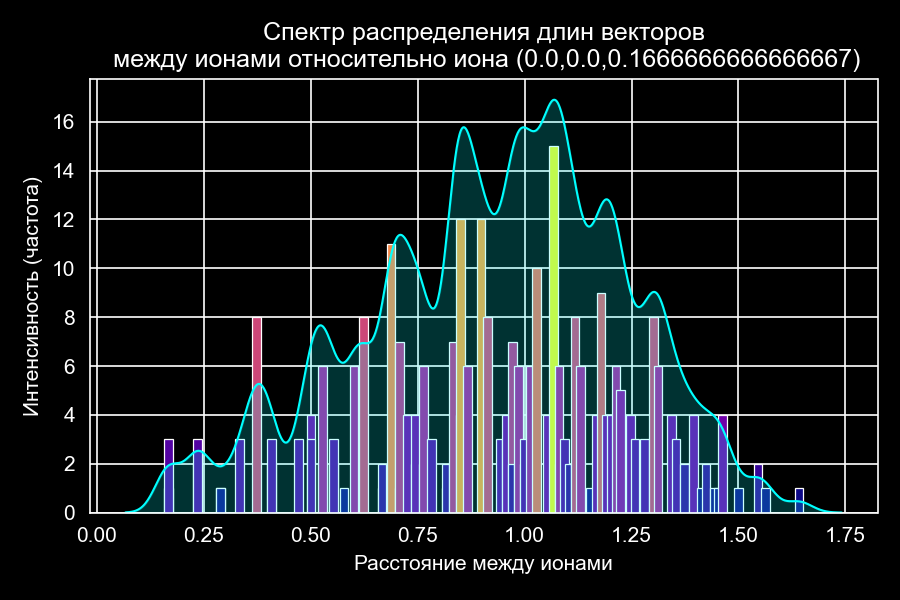
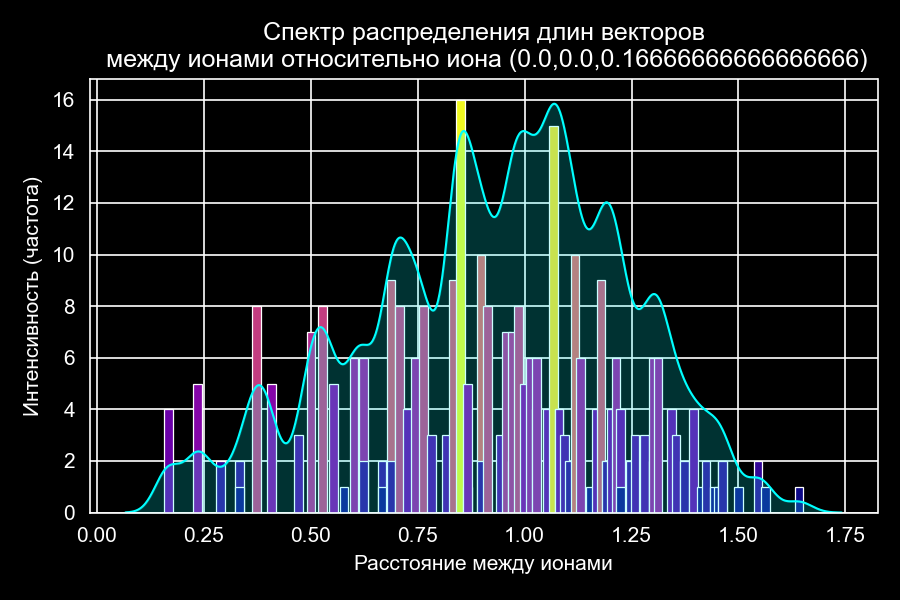
Небольшие улучшения, выводы по работе

diff --git a/scripts/operations/testing.py b/scripts/operations/testing.py
@@ -16,23 +16,23 @@ from scripts.operations.spectrum_operations import create_all_spectrum_plots, pl
 # res = get_lattice_vectors2(normalized_data)
 
 # Нормализовать
-a = parse_xyz(Path("../../data/NaCl/NaCl_7x7x7.xyz"))
-data_dict = {}
-for i in range(len(a)):
-    data_dict[i + 1] = a[i]
-shifted_data = shift_coordinates(data_dict.values())
-normalized_data = normalize_coordinates(shifted_data)
-print(normalized_data)
-res = get_lattice_vectors2(normalized_data)
+# a = parse_xyz(Path("../../data/NaCl/NaCl_7x7x7.xyz"))
+# data_dict = {}
+# for i in range(len(a)):
+#     data_dict[i + 1] = a[i]
+# shifted_data = shift_coordinates(data_dict.values())
+# normalized_data = normalize_coordinates(shifted_data)
+# print(normalized_data)
+# res = get_lattice_vectors2(normalized_data)
 
 # Создание графиков по набору векторов
 # # 3x3x3
 # #a = [['Cl', 0.0, 0.0, 0.0], ['Na', 0.0, 0.0, 0.5], ['Cl', 0.0, 0.0, 1.0], ['Na', 0.0, 0.5, 0.0], ['Cl', 0.0, 0.5, 0.5], ['Na', 0.0, 0.5, 1.0], ['Cl', 0.0, 1.0, 0.0], ['Na', 0.0, 1.0, 0.5], ['Cl', 0.0, 1.0, 1.0], ['Na', 0.5, 0.0, 0.0], ['Cl', 0.5, 0.0, 0.5], ['Na', 0.5, 0.0, 1.0], ['Cl', 0.5, 0.5, 0.0], ['Na', 0.5, 0.5, 0.5], ['Cl', 0.5, 0.5, 1.0], ['Na', 0.5, 1.0, 0.0], ['Cl', 0.5, 1.0, 0.5], ['Na', 0.5, 1.0, 1.0], ['Cl', 1.0, 0.0, 0.0], ['Na', 1.0, 0.0, 0.5], ['Cl', 1.0, 0.0, 1.0], ['Na', 1.0, 0.5, 0.0], ['Cl', 1.0, 0.5, 0.5], ['Na', 1.0, 0.5, 1.0], ['Cl', 1.0, 1.0, 0.0], ['Na', 1.0, 1.0, 0.5], ['Cl', 1.0, 1.0, 1.0]]
 # #substance_id = 333
 # # 7x7x7
-# #a = [['Cl', 0.0, 0.0, 0.0], ['Na', 0.0, 0.0, 0.16666666666666666], ['Cl', 0.0, 0.0, 0.3333333333333333], ['Na', 0.0, 0.0, 0.5], ['Cl', 0.0, 0.0, 0.6666666666666666], ['Na', 0.0, 0.0, 0.8333333333333334], ['Cl', 0.0, 0.0, 1.0], ['Na', 0.0, 0.16666666666666666, 0.0], ['Cl', 0.0, 0.16666666666666666, 0.16666666666666666], ['Na', 0.0, 0.16666666666666666, 0.3333333333333333], ['Cl', 0.0, 0.16666666666666666, 0.5], ['Na', 0.0, 0.16666666666666666, 0.6666666666666666], ['Cl', 0.0, 0.16666666666666666, 0.8333333333333334], ['Na', 0.0, 0.16666666666666666, 1.0], ['Cl', 0.0, 0.3333333333333333, 0.0], ['Na', 0.0, 0.3333333333333333, 0.16666666666666666], ['Cl', 0.0, 0.3333333333333333, 0.3333333333333333], ['Na', 0.0, 0.3333333333333333, 0.5], ['Cl', 0.0, 0.3333333333333333, 0.6666666666666666], ['Na', 0.0, 0.3333333333333333, 0.8333333333333334], ['Cl', 0.0, 0.3333333333333333, 1.0], ['Na', 0.0, 0.5, 0.0], ['Cl', 0.0, 0.5, 0.16666666666666666], ['Na', 0.0, 0.5, 0.3333333333333333], ['Cl', 0.0, 0.5, 0.5], ['Na', 0.0, 0.5, 0.6666666666666666], ['Cl', 0.0, 0.5, 0.8333333333333334], ['Na', 0.0, 0.5, 1.0], ['Cl', 0.0, 0.6666666666666666, 0.0], ['Na', 0.0, 0.6666666666666666, 0.16666666666666666], ['Cl', 0.0, 0.6666666666666666, 0.3333333333333333], ['Na', 0.0, 0.6666666666666666, 0.5], ['Cl', 0.0, 0.6666666666666666, 0.6666666666666666], ['Na', 0.0, 0.6666666666666666, 0.8333333333333334], ['Cl', 0.0, 0.6666666666666666, 1.0], ['Na', 0.0, 0.8333333333333334, 0.0], ['Cl', 0.0, 0.8333333333333334, 0.16666666666666666], ['Na', 0.0, 0.8333333333333334, 0.3333333333333333], ['Cl', 0.0, 0.8333333333333334, 0.5], ['Na', 0.0, 0.8333333333333334, 0.6666666666666666], ['Cl', 0.0, 0.8333333333333334, 0.8333333333333334], ['Na', 0.0, 0.8333333333333334, 1.0], ['Cl', 0.0, 1.0, 0.0], ['Na', 0.0, 1.0, 0.16666666666666666], ['Cl', 0.0, 1.0, 0.3333333333333333], ['Na', 0.0, 1.0, 0.5], ['Cl', 0.0, 1.0, 0.6666666666666666], ['Na', 0.0, 1.0, 0.8333333333333334], ['Cl', 0.0, 1.0, 1.0], ['Na', 0.16666666666666666, 0.0, 0.0], ['Cl', 0.16666666666666666, 0.0, 0.16666666666666666], ['Na', 0.16666666666666666, 0.0, 0.3333333333333333], ['Cl', 0.16666666666666666, 0.0, 0.5], ['Na', 0.16666666666666666, 0.0, 0.6666666666666666], ['Cl', 0.16666666666666666, 0.0, 0.8333333333333334], ['Na', 0.16666666666666666, 0.0, 1.0], ['Cl', 0.16666666666666666, 0.16666666666666666, 0.0], ['Na', 0.16666666666666666, 0.16666666666666666, 0.16666666666666666], ['Cl', 0.16666666666666666, 0.16666666666666666, 0.3333333333333333], ['Na', 0.16666666666666666, 0.16666666666666666, 0.5], ['Cl', 0.16666666666666666, 0.16666666666666666, 0.6666666666666666], ['Na', 0.16666666666666666, 0.16666666666666666, 0.8333333333333334], ['Cl', 0.16666666666666666, 0.16666666666666666, 1.0], ['Na', 0.16666666666666666, 0.3333333333333333, 0.0], ['Cl', 0.16666666666666666, 0.3333333333333333, 0.16666666666666666], ['Na', 0.16666666666666666, 0.3333333333333333, 0.3333333333333333], ['Cl', 0.16666666666666666, 0.3333333333333333, 0.5], ['Na', 0.16666666666666666, 0.3333333333333333, 0.6666666666666666], ['Cl', 0.16666666666666666, 0.3333333333333333, 0.8333333333333334], ['Na', 0.16666666666666666, 0.3333333333333333, 1.0], ['Cl', 0.16666666666666666, 0.5, 0.0], ['Na', 0.16666666666666666, 0.5, 0.16666666666666666], ['Cl', 0.16666666666666666, 0.5, 0.3333333333333333], ['Na', 0.16666666666666666, 0.5, 0.5], ['Cl', 0.16666666666666666, 0.5, 0.6666666666666666], ['Na', 0.16666666666666666, 0.5, 0.8333333333333334], ['Cl', 0.16666666666666666, 0.5, 1.0], ['Na', 0.16666666666666666, 0.6666666666666666, 0.0], ['Cl', 0.16666666666666666, 0.6666666666666666, 0.16666666666666666], ['Na', 0.16666666666666666, 0.6666666666666666, 0.3333333333333333], ['Cl', 0.16666666666666666, 0.6666666666666666, 0.5], ['Na', 0.16666666666666666, 0.6666666666666666, 0.6666666666666666], ['Cl', 0.16666666666666666, 0.6666666666666666, 0.8333333333333334], ['Na', 0.16666666666666666, 0.6666666666666666, 1.0], ['Cl', 0.16666666666666666, 0.8333333333333334, 0.0], ['Na', 0.16666666666666666, 0.8333333333333334, 0.16666666666666666], ['Cl', 0.16666666666666666, 0.8333333333333334, 0.3333333333333333], ['Na', 0.16666666666666666, 0.8333333333333334, 0.5], ['Cl', 0.16666666666666666, 0.8333333333333334, 0.6666666666666666], ['Na', 0.16666666666666666, 0.8333333333333334, 0.8333333333333334], ['Cl', 0.16666666666666666, 0.8333333333333334, 1.0], ['Na', 0.16666666666666666, 1.0, 0.0], ['Cl', 0.16666666666666666, 1.0, 0.16666666666666666], ['Na', 0.16666666666666666, 1.0, 0.3333333333333333], ['Cl', 0.16666666666666666, 1.0, 0.5], ['Na', 0.16666666666666666, 1.0, 0.6666666666666666], ['Cl', 0.16666666666666666, 1.0, 0.8333333333333334], ['Na', 0.16666666666666666, 1.0, 1.0], ['Cl', 0.3333333333333333, 0.0, 0.0], ['Na', 0.3333333333333333, 0.0, 0.16666666666666666], ['Cl', 0.3333333333333333, 0.0, 0.3333333333333333], ['Na', 0.3333333333333333, 0.0, 0.5], ['Cl', 0.3333333333333333, 0.0, 0.6666666666666666], ['Na', 0.3333333333333333, 0.0, 0.8333333333333334], ['Cl', 0.3333333333333333, 0.0, 1.0], ['Na', 0.3333333333333333, 0.16666666666666666, 0.0], ['Cl', 0.3333333333333333, 0.16666666666666666, 0.16666666666666666], ['Na', 0.3333333333333333, 0.16666666666666666, 0.3333333333333333], ['Cl', 0.3333333333333333, 0.16666666666666666, 0.5], ['Na', 0.3333333333333333, 0.16666666666666666, 0.6666666666666666], ['Cl', 0.3333333333333333, 0.16666666666666666, 0.8333333333333334], ['Na', 0.3333333333333333, 0.16666666666666666, 1.0], ['Cl', 0.3333333333333333, 0.3333333333333333, 0.0], ['Na', 0.3333333333333333, 0.3333333333333333, 0.16666666666666666], ['Cl', 0.3333333333333333, 0.3333333333333333, 0.3333333333333333], ['Na', 0.3333333333333333, 0.3333333333333333, 0.5], ['Cl', 0.3333333333333333, 0.3333333333333333, 0.6666666666666666], ['Na', 0.3333333333333333, 0.3333333333333333, 0.8333333333333334], ['Cl', 0.3333333333333333, 0.3333333333333333, 1.0], ['Na', 0.3333333333333333, 0.5, 0.0], ['Cl', 0.3333333333333333, 0.5, 0.16666666666666666], ['Na', 0.3333333333333333, 0.5, 0.3333333333333333], ['Cl', 0.3333333333333333, 0.5, 0.5], ['Na', 0.3333333333333333, 0.5, 0.6666666666666666], ['Cl', 0.3333333333333333, 0.5, 0.8333333333333334], ['Na', 0.3333333333333333, 0.5, 1.0], ['Cl', 0.3333333333333333, 0.6666666666666666, 0.0], ['Na', 0.3333333333333333, 0.6666666666666666, 0.16666666666666666], ['Cl', 0.3333333333333333, 0.6666666666666666, 0.3333333333333333], ['Na', 0.3333333333333333, 0.6666666666666666, 0.5], ['Cl', 0.3333333333333333, 0.6666666666666666, 0.6666666666666666], ['Na', 0.3333333333333333, 0.6666666666666666, 0.8333333333333334], ['Cl', 0.3333333333333333, 0.6666666666666666, 1.0], ['Na', 0.3333333333333333, 0.8333333333333334, 0.0], ['Cl', 0.3333333333333333, 0.8333333333333334, 0.16666666666666666], ['Na', 0.3333333333333333, 0.8333333333333334, 0.3333333333333333], ['Cl', 0.3333333333333333, 0.8333333333333334, 0.5], ['Na', 0.3333333333333333, 0.8333333333333334, 0.6666666666666666], ['Cl', 0.3333333333333333, 0.8333333333333334, 0.8333333333333334], ['Na', 0.3333333333333333, 0.8333333333333334, 1.0], ['Cl', 0.3333333333333333, 1.0, 0.0], ['Na', 0.3333333333333333, 1.0, 0.16666666666666666], ['Cl', 0.3333333333333333, 1.0, 0.3333333333333333], ['Na', 0.3333333333333333, 1.0, 0.5], ['Cl', 0.3333333333333333, 1.0, 0.6666666666666666], ['Na', 0.3333333333333333, 1.0, 0.8333333333333334], ['Cl', 0.3333333333333333, 1.0, 1.0], ['Na', 0.5, 0.0, 0.0], ['Cl', 0.5, 0.0, 0.16666666666666666], ['Na', 0.5, 0.0, 0.3333333333333333], ['Cl', 0.5, 0.0, 0.5], ['Na', 0.5, 0.0, 0.6666666666666666], ['Cl', 0.5, 0.0, 0.8333333333333334], ['Na', 0.5, 0.0, 1.0], ['Cl', 0.5, 0.16666666666666666, 0.0], ['Na', 0.5, 0.16666666666666666, 0.16666666666666666], ['Cl', 0.5, 0.16666666666666666, 0.3333333333333333], ['Na', 0.5, 0.16666666666666666, 0.5], ['Cl', 0.5, 0.16666666666666666, 0.6666666666666666], ['Na', 0.5, 0.16666666666666666, 0.8333333333333334], ['Cl', 0.5, 0.16666666666666666, 1.0], ['Na', 0.5, 0.3333333333333333, 0.0], ['Cl', 0.5, 0.3333333333333333, 0.16666666666666666], ['Na', 0.5, 0.3333333333333333, 0.3333333333333333], ['Cl', 0.5, 0.3333333333333333, 0.5], ['Na', 0.5, 0.3333333333333333, 0.6666666666666666], ['Cl', 0.5, 0.3333333333333333, 0.8333333333333334], ['Na', 0.5, 0.3333333333333333, 1.0], ['Cl', 0.5, 0.5, 0.0], ['Na', 0.5, 0.5, 0.16666666666666666], ['Cl', 0.5, 0.5, 0.3333333333333333], ['Na', 0.5, 0.5, 0.5], ['Cl', 0.5, 0.5, 0.6666666666666666], ['Na', 0.5, 0.5, 0.8333333333333334], ['Cl', 0.5, 0.5, 1.0], ['Na', 0.5, 0.6666666666666666, 0.0], ['Cl', 0.5, 0.6666666666666666, 0.16666666666666666], ['Na', 0.5, 0.6666666666666666, 0.3333333333333333], ['Cl', 0.5, 0.6666666666666666, 0.5], ['Na', 0.5, 0.6666666666666666, 0.6666666666666666], ['Cl', 0.5, 0.6666666666666666, 0.8333333333333334], ['Na', 0.5, 0.6666666666666666, 1.0], ['Cl', 0.5, 0.8333333333333334, 0.0], ['Na', 0.5, 0.8333333333333334, 0.16666666666666666], ['Cl', 0.5, 0.8333333333333334, 0.3333333333333333], ['Na', 0.5, 0.8333333333333334, 0.5], ['Cl', 0.5, 0.8333333333333334, 0.6666666666666666], ['Na', 0.5, 0.8333333333333334, 0.8333333333333334], ['Cl', 0.5, 0.8333333333333334, 1.0], ['Na', 0.5, 1.0, 0.0], ['Cl', 0.5, 1.0, 0.16666666666666666], ['Na', 0.5, 1.0, 0.3333333333333333], ['Cl', 0.5, 1.0, 0.5], ['Na', 0.5, 1.0, 0.6666666666666666], ['Cl', 0.5, 1.0, 0.8333333333333334], ['Na', 0.5, 1.0, 1.0], ['Cl', 0.6666666666666666, 0.0, 0.0], ['Na', 0.6666666666666666, 0.0, 0.16666666666666666], ['Cl', 0.6666666666666666, 0.0, 0.3333333333333333], ['Na', 0.6666666666666666, 0.0, 0.5], ['Cl', 0.6666666666666666, 0.0, 0.6666666666666666], ['Na', 0.6666666666666666, 0.0, 0.8333333333333334], ['Cl', 0.6666666666666666, 0.0, 1.0], ['Na', 0.6666666666666666, 0.16666666666666666, 0.0], ['Cl', 0.6666666666666666, 0.16666666666666666, 0.16666666666666666], ['Na', 0.6666666666666666, 0.16666666666666666, 0.3333333333333333], ['Cl', 0.6666666666666666, 0.16666666666666666, 0.5], ['Na', 0.6666666666666666, 0.16666666666666666, 0.6666666666666666], ['Cl', 0.6666666666666666, 0.16666666666666666, 0.8333333333333334], ['Na', 0.6666666666666666, 0.16666666666666666, 1.0], ['Cl', 0.6666666666666666, 0.3333333333333333, 0.0], ['Na', 0.6666666666666666, 0.3333333333333333, 0.16666666666666666], ['Cl', 0.6666666666666666, 0.3333333333333333, 0.3333333333333333], ['Na', 0.6666666666666666, 0.3333333333333333, 0.5], ['Cl', 0.6666666666666666, 0.3333333333333333, 0.6666666666666666], ['Na', 0.6666666666666666, 0.3333333333333333, 0.8333333333333334], ['Cl', 0.6666666666666666, 0.3333333333333333, 1.0], ['Na', 0.6666666666666666, 0.5, 0.0], ['Cl', 0.6666666666666666, 0.5, 0.16666666666666666], ['Na', 0.6666666666666666, 0.5, 0.3333333333333333], ['Cl', 0.6666666666666666, 0.5, 0.5], ['Na', 0.6666666666666666, 0.5, 0.6666666666666666], ['Cl', 0.6666666666666666, 0.5, 0.8333333333333334], ['Na', 0.6666666666666666, 0.5, 1.0], ['Cl', 0.6666666666666666, 0.6666666666666666, 0.0], ['Na', 0.6666666666666666, 0.6666666666666666, 0.16666666666666666], ['Cl', 0.6666666666666666, 0.6666666666666666, 0.3333333333333333], ['Na', 0.6666666666666666, 0.6666666666666666, 0.5], ['Cl', 0.6666666666666666, 0.6666666666666666, 0.6666666666666666], ['Na', 0.6666666666666666, 0.6666666666666666, 0.8333333333333334], ['Cl', 0.6666666666666666, 0.6666666666666666, 1.0], ['Na', 0.6666666666666666, 0.8333333333333334, 0.0], ['Cl', 0.6666666666666666, 0.8333333333333334, 0.16666666666666666], ['Na', 0.6666666666666666, 0.8333333333333334, 0.3333333333333333], ['Cl', 0.6666666666666666, 0.8333333333333334, 0.5], ['Na', 0.6666666666666666, 0.8333333333333334, 0.6666666666666666], ['Cl', 0.6666666666666666, 0.8333333333333334, 0.8333333333333334], ['Na', 0.6666666666666666, 0.8333333333333334, 1.0], ['Cl', 0.6666666666666666, 1.0, 0.0], ['Na', 0.6666666666666666, 1.0, 0.16666666666666666], ['Cl', 0.6666666666666666, 1.0, 0.3333333333333333], ['Na', 0.6666666666666666, 1.0, 0.5], ['Cl', 0.6666666666666666, 1.0, 0.6666666666666666], ['Na', 0.6666666666666666, 1.0, 0.8333333333333334], ['Cl', 0.6666666666666666, 1.0, 1.0], ['Na', 0.8333333333333334, 0.0, 0.0], ['Cl', 0.8333333333333334, 0.0, 0.16666666666666666], ['Na', 0.8333333333333334, 0.0, 0.3333333333333333], ['Cl', 0.8333333333333334, 0.0, 0.5], ['Na', 0.8333333333333334, 0.0, 0.6666666666666666], ['Cl', 0.8333333333333334, 0.0, 0.8333333333333334], ['Na', 0.8333333333333334, 0.0, 1.0], ['Cl', 0.8333333333333334, 0.16666666666666666, 0.0], ['Na', 0.8333333333333334, 0.16666666666666666, 0.16666666666666666], ['Cl', 0.8333333333333334, 0.16666666666666666, 0.3333333333333333], ['Na', 0.8333333333333334, 0.16666666666666666, 0.5], ['Cl', 0.8333333333333334, 0.16666666666666666, 0.6666666666666666], ['Na', 0.8333333333333334, 0.16666666666666666, 0.8333333333333334], ['Cl', 0.8333333333333334, 0.16666666666666666, 1.0], ['Na', 0.8333333333333334, 0.3333333333333333, 0.0], ['Cl', 0.8333333333333334, 0.3333333333333333, 0.16666666666666666], ['Na', 0.8333333333333334, 0.3333333333333333, 0.3333333333333333], ['Cl', 0.8333333333333334, 0.3333333333333333, 0.5], ['Na', 0.8333333333333334, 0.3333333333333333, 0.6666666666666666], ['Cl', 0.8333333333333334, 0.3333333333333333, 0.8333333333333334], ['Na', 0.8333333333333334, 0.3333333333333333, 1.0], ['Cl', 0.8333333333333334, 0.5, 0.0], ['Na', 0.8333333333333334, 0.5, 0.16666666666666666], ['Cl', 0.8333333333333334, 0.5, 0.3333333333333333], ['Na', 0.8333333333333334, 0.5, 0.5], ['Cl', 0.8333333333333334, 0.5, 0.6666666666666666], ['Na', 0.8333333333333334, 0.5, 0.8333333333333334], ['Cl', 0.8333333333333334, 0.5, 1.0], ['Na', 0.8333333333333334, 0.6666666666666666, 0.0], ['Cl', 0.8333333333333334, 0.6666666666666666, 0.16666666666666666], ['Na', 0.8333333333333334, 0.6666666666666666, 0.3333333333333333], ['Cl', 0.8333333333333334, 0.6666666666666666, 0.5], ['Na', 0.8333333333333334, 0.6666666666666666, 0.6666666666666666], ['Cl', 0.8333333333333334, 0.6666666666666666, 0.8333333333333334], ['Na', 0.8333333333333334, 0.6666666666666666, 1.0], ['Cl', 0.8333333333333334, 0.8333333333333334, 0.0], ['Na', 0.8333333333333334, 0.8333333333333334, 0.16666666666666666], ['Cl', 0.8333333333333334, 0.8333333333333334, 0.3333333333333333], ['Na', 0.8333333333333334, 0.8333333333333334, 0.5], ['Cl', 0.8333333333333334, 0.8333333333333334, 0.6666666666666666], ['Na', 0.8333333333333334, 0.8333333333333334, 0.8333333333333334], ['Cl', 0.8333333333333334, 0.8333333333333334, 1.0], ['Na', 0.8333333333333334, 1.0, 0.0], ['Cl', 0.8333333333333334, 1.0, 0.16666666666666666], ['Na', 0.8333333333333334, 1.0, 0.3333333333333333], ['Cl', 0.8333333333333334, 1.0, 0.5], ['Na', 0.8333333333333334, 1.0, 0.6666666666666666], ['Cl', 0.8333333333333334, 1.0, 0.8333333333333334], ['Na', 0.8333333333333334, 1.0, 1.0], ['Cl', 1.0, 0.0, 0.0], ['Na', 1.0, 0.0, 0.16666666666666666], ['Cl', 1.0, 0.0, 0.3333333333333333], ['Na', 1.0, 0.0, 0.5], ['Cl', 1.0, 0.0, 0.6666666666666666], ['Na', 1.0, 0.0, 0.8333333333333334], ['Cl', 1.0, 0.0, 1.0], ['Na', 1.0, 0.16666666666666666, 0.0], ['Cl', 1.0, 0.16666666666666666, 0.16666666666666666], ['Na', 1.0, 0.16666666666666666, 0.3333333333333333], ['Cl', 1.0, 0.16666666666666666, 0.5], ['Na', 1.0, 0.16666666666666666, 0.6666666666666666], ['Cl', 1.0, 0.16666666666666666, 0.8333333333333334], ['Na', 1.0, 0.16666666666666666, 1.0], ['Cl', 1.0, 0.3333333333333333, 0.0], ['Na', 1.0, 0.3333333333333333, 0.16666666666666666], ['Cl', 1.0, 0.3333333333333333, 0.3333333333333333], ['Na', 1.0, 0.3333333333333333, 0.5], ['Cl', 1.0, 0.3333333333333333, 0.6666666666666666], ['Na', 1.0, 0.3333333333333333, 0.8333333333333334], ['Cl', 1.0, 0.3333333333333333, 1.0], ['Na', 1.0, 0.5, 0.0], ['Cl', 1.0, 0.5, 0.16666666666666666], ['Na', 1.0, 0.5, 0.3333333333333333], ['Cl', 1.0, 0.5, 0.5], ['Na', 1.0, 0.5, 0.6666666666666666], ['Cl', 1.0, 0.5, 0.8333333333333334], ['Na', 1.0, 0.5, 1.0], ['Cl', 1.0, 0.6666666666666666, 0.0], ['Na', 1.0, 0.6666666666666666, 0.16666666666666666], ['Cl', 1.0, 0.6666666666666666, 0.3333333333333333], ['Na', 1.0, 0.6666666666666666, 0.5], ['Cl', 1.0, 0.6666666666666666, 0.6666666666666666], ['Na', 1.0, 0.6666666666666666, 0.8333333333333334], ['Cl', 1.0, 0.6666666666666666, 1.0], ['Na', 1.0, 0.8333333333333334, 0.0], ['Cl', 1.0, 0.8333333333333334, 0.16666666666666666], ['Na', 1.0, 0.8333333333333334, 0.3333333333333333], ['Cl', 1.0, 0.8333333333333334, 0.5], ['Na', 1.0, 0.8333333333333334, 0.6666666666666666], ['Cl', 1.0, 0.8333333333333334, 0.8333333333333334], ['Na', 1.0, 0.8333333333333334, 1.0], ['Cl', 1.0, 1.0, 0.0], ['Na', 1.0, 1.0, 0.16666666666666666], ['Cl', 1.0, 1.0, 0.3333333333333333], ['Na', 1.0, 1.0, 0.5], ['Cl', 1.0, 1.0, 0.6666666666666666], ['Na', 1.0, 1.0, 0.8333333333333334], ['Cl', 1.0, 1.0, 1.0]]
+a = [['Cl', 0.0, 0.0, 0.0], ['Na', 0.0, 0.0, 0.16666666666666666], ['Cl', 0.0, 0.0, 0.3333333333333333], ['Na', 0.0, 0.0, 0.5], ['Cl', 0.0, 0.0, 0.6666666666666666], ['Na', 0.0, 0.0, 0.8333333333333334], ['Cl', 0.0, 0.0, 1.0], ['Na', 0.0, 0.16666666666666666, 0.0], ['Cl', 0.0, 0.16666666666666666, 0.16666666666666666], ['Na', 0.0, 0.16666666666666666, 0.3333333333333333], ['Cl', 0.0, 0.16666666666666666, 0.5], ['Na', 0.0, 0.16666666666666666, 0.6666666666666666], ['Cl', 0.0, 0.16666666666666666, 0.8333333333333334], ['Na', 0.0, 0.16666666666666666, 1.0], ['Cl', 0.0, 0.3333333333333333, 0.0], ['Na', 0.0, 0.3333333333333333, 0.16666666666666666], ['Cl', 0.0, 0.3333333333333333, 0.3333333333333333], ['Na', 0.0, 0.3333333333333333, 0.5], ['Cl', 0.0, 0.3333333333333333, 0.6666666666666666], ['Na', 0.0, 0.3333333333333333, 0.8333333333333334], ['Cl', 0.0, 0.3333333333333333, 1.0], ['Na', 0.0, 0.5, 0.0], ['Cl', 0.0, 0.5, 0.16666666666666666], ['Na', 0.0, 0.5, 0.3333333333333333], ['Cl', 0.0, 0.5, 0.5], ['Na', 0.0, 0.5, 0.6666666666666666], ['Cl', 0.0, 0.5, 0.8333333333333334], ['Na', 0.0, 0.5, 1.0], ['Cl', 0.0, 0.6666666666666666, 0.0], ['Na', 0.0, 0.6666666666666666, 0.16666666666666666], ['Cl', 0.0, 0.6666666666666666, 0.3333333333333333], ['Na', 0.0, 0.6666666666666666, 0.5], ['Cl', 0.0, 0.6666666666666666, 0.6666666666666666], ['Na', 0.0, 0.6666666666666666, 0.8333333333333334], ['Cl', 0.0, 0.6666666666666666, 1.0], ['Na', 0.0, 0.8333333333333334, 0.0], ['Cl', 0.0, 0.8333333333333334, 0.16666666666666666], ['Na', 0.0, 0.8333333333333334, 0.3333333333333333], ['Cl', 0.0, 0.8333333333333334, 0.5], ['Na', 0.0, 0.8333333333333334, 0.6666666666666666], ['Cl', 0.0, 0.8333333333333334, 0.8333333333333334], ['Na', 0.0, 0.8333333333333334, 1.0], ['Cl', 0.0, 1.0, 0.0], ['Na', 0.0, 1.0, 0.16666666666666666], ['Cl', 0.0, 1.0, 0.3333333333333333], ['Na', 0.0, 1.0, 0.5], ['Cl', 0.0, 1.0, 0.6666666666666666], ['Na', 0.0, 1.0, 0.8333333333333334], ['Cl', 0.0, 1.0, 1.0], ['Na', 0.16666666666666666, 0.0, 0.0], ['Cl', 0.16666666666666666, 0.0, 0.16666666666666666], ['Na', 0.16666666666666666, 0.0, 0.3333333333333333], ['Cl', 0.16666666666666666, 0.0, 0.5], ['Na', 0.16666666666666666, 0.0, 0.6666666666666666], ['Cl', 0.16666666666666666, 0.0, 0.8333333333333334], ['Na', 0.16666666666666666, 0.0, 1.0], ['Cl', 0.16666666666666666, 0.16666666666666666, 0.0], ['Na', 0.16666666666666666, 0.16666666666666666, 0.16666666666666666], ['Cl', 0.16666666666666666, 0.16666666666666666, 0.3333333333333333], ['Na', 0.16666666666666666, 0.16666666666666666, 0.5], ['Cl', 0.16666666666666666, 0.16666666666666666, 0.6666666666666666], ['Na', 0.16666666666666666, 0.16666666666666666, 0.8333333333333334], ['Cl', 0.16666666666666666, 0.16666666666666666, 1.0], ['Na', 0.16666666666666666, 0.3333333333333333, 0.0], ['Cl', 0.16666666666666666, 0.3333333333333333, 0.16666666666666666], ['Na', 0.16666666666666666, 0.3333333333333333, 0.3333333333333333], ['Cl', 0.16666666666666666, 0.3333333333333333, 0.5], ['Na', 0.16666666666666666, 0.3333333333333333, 0.6666666666666666], ['Cl', 0.16666666666666666, 0.3333333333333333, 0.8333333333333334], ['Na', 0.16666666666666666, 0.3333333333333333, 1.0], ['Cl', 0.16666666666666666, 0.5, 0.0], ['Na', 0.16666666666666666, 0.5, 0.16666666666666666], ['Cl', 0.16666666666666666, 0.5, 0.3333333333333333], ['Na', 0.16666666666666666, 0.5, 0.5], ['Cl', 0.16666666666666666, 0.5, 0.6666666666666666], ['Na', 0.16666666666666666, 0.5, 0.8333333333333334], ['Cl', 0.16666666666666666, 0.5, 1.0], ['Na', 0.16666666666666666, 0.6666666666666666, 0.0], ['Cl', 0.16666666666666666, 0.6666666666666666, 0.16666666666666666], ['Na', 0.16666666666666666, 0.6666666666666666, 0.3333333333333333], ['Cl', 0.16666666666666666, 0.6666666666666666, 0.5], ['Na', 0.16666666666666666, 0.6666666666666666, 0.6666666666666666], ['Cl', 0.16666666666666666, 0.6666666666666666, 0.8333333333333334], ['Na', 0.16666666666666666, 0.6666666666666666, 1.0], ['Cl', 0.16666666666666666, 0.8333333333333334, 0.0], ['Na', 0.16666666666666666, 0.8333333333333334, 0.16666666666666666], ['Cl', 0.16666666666666666, 0.8333333333333334, 0.3333333333333333], ['Na', 0.16666666666666666, 0.8333333333333334, 0.5], ['Cl', 0.16666666666666666, 0.8333333333333334, 0.6666666666666666], ['Na', 0.16666666666666666, 0.8333333333333334, 0.8333333333333334], ['Cl', 0.16666666666666666, 0.8333333333333334, 1.0], ['Na', 0.16666666666666666, 1.0, 0.0], ['Cl', 0.16666666666666666, 1.0, 0.16666666666666666], ['Na', 0.16666666666666666, 1.0, 0.3333333333333333], ['Cl', 0.16666666666666666, 1.0, 0.5], ['Na', 0.16666666666666666, 1.0, 0.6666666666666666], ['Cl', 0.16666666666666666, 1.0, 0.8333333333333334], ['Na', 0.16666666666666666, 1.0, 1.0], ['Cl', 0.3333333333333333, 0.0, 0.0], ['Na', 0.3333333333333333, 0.0, 0.16666666666666666], ['Cl', 0.3333333333333333, 0.0, 0.3333333333333333], ['Na', 0.3333333333333333, 0.0, 0.5], ['Cl', 0.3333333333333333, 0.0, 0.6666666666666666], ['Na', 0.3333333333333333, 0.0, 0.8333333333333334], ['Cl', 0.3333333333333333, 0.0, 1.0], ['Na', 0.3333333333333333, 0.16666666666666666, 0.0], ['Cl', 0.3333333333333333, 0.16666666666666666, 0.16666666666666666], ['Na', 0.3333333333333333, 0.16666666666666666, 0.3333333333333333], ['Cl', 0.3333333333333333, 0.16666666666666666, 0.5], ['Na', 0.3333333333333333, 0.16666666666666666, 0.6666666666666666], ['Cl', 0.3333333333333333, 0.16666666666666666, 0.8333333333333334], ['Na', 0.3333333333333333, 0.16666666666666666, 1.0], ['Cl', 0.3333333333333333, 0.3333333333333333, 0.0], ['Na', 0.3333333333333333, 0.3333333333333333, 0.16666666666666666], ['Cl', 0.3333333333333333, 0.3333333333333333, 0.3333333333333333], ['Na', 0.3333333333333333, 0.3333333333333333, 0.5], ['Cl', 0.3333333333333333, 0.3333333333333333, 0.6666666666666666], ['Na', 0.3333333333333333, 0.3333333333333333, 0.8333333333333334], ['Cl', 0.3333333333333333, 0.3333333333333333, 1.0], ['Na', 0.3333333333333333, 0.5, 0.0], ['Cl', 0.3333333333333333, 0.5, 0.16666666666666666], ['Na', 0.3333333333333333, 0.5, 0.3333333333333333], ['Cl', 0.3333333333333333, 0.5, 0.5], ['Na', 0.3333333333333333, 0.5, 0.6666666666666666], ['Cl', 0.3333333333333333, 0.5, 0.8333333333333334], ['Na', 0.3333333333333333, 0.5, 1.0], ['Cl', 0.3333333333333333, 0.6666666666666666, 0.0], ['Na', 0.3333333333333333, 0.6666666666666666, 0.16666666666666666], ['Cl', 0.3333333333333333, 0.6666666666666666, 0.3333333333333333], ['Na', 0.3333333333333333, 0.6666666666666666, 0.5], ['Cl', 0.3333333333333333, 0.6666666666666666, 0.6666666666666666], ['Na', 0.3333333333333333, 0.6666666666666666, 0.8333333333333334], ['Cl', 0.3333333333333333, 0.6666666666666666, 1.0], ['Na', 0.3333333333333333, 0.8333333333333334, 0.0], ['Cl', 0.3333333333333333, 0.8333333333333334, 0.16666666666666666], ['Na', 0.3333333333333333, 0.8333333333333334, 0.3333333333333333], ['Cl', 0.3333333333333333, 0.8333333333333334, 0.5], ['Na', 0.3333333333333333, 0.8333333333333334, 0.6666666666666666], ['Cl', 0.3333333333333333, 0.8333333333333334, 0.8333333333333334], ['Na', 0.3333333333333333, 0.8333333333333334, 1.0], ['Cl', 0.3333333333333333, 1.0, 0.0], ['Na', 0.3333333333333333, 1.0, 0.16666666666666666], ['Cl', 0.3333333333333333, 1.0, 0.3333333333333333], ['Na', 0.3333333333333333, 1.0, 0.5], ['Cl', 0.3333333333333333, 1.0, 0.6666666666666666], ['Na', 0.3333333333333333, 1.0, 0.8333333333333334], ['Cl', 0.3333333333333333, 1.0, 1.0], ['Na', 0.5, 0.0, 0.0], ['Cl', 0.5, 0.0, 0.16666666666666666], ['Na', 0.5, 0.0, 0.3333333333333333], ['Cl', 0.5, 0.0, 0.5], ['Na', 0.5, 0.0, 0.6666666666666666], ['Cl', 0.5, 0.0, 0.8333333333333334], ['Na', 0.5, 0.0, 1.0], ['Cl', 0.5, 0.16666666666666666, 0.0], ['Na', 0.5, 0.16666666666666666, 0.16666666666666666], ['Cl', 0.5, 0.16666666666666666, 0.3333333333333333], ['Na', 0.5, 0.16666666666666666, 0.5], ['Cl', 0.5, 0.16666666666666666, 0.6666666666666666], ['Na', 0.5, 0.16666666666666666, 0.8333333333333334], ['Cl', 0.5, 0.16666666666666666, 1.0], ['Na', 0.5, 0.3333333333333333, 0.0], ['Cl', 0.5, 0.3333333333333333, 0.16666666666666666], ['Na', 0.5, 0.3333333333333333, 0.3333333333333333], ['Cl', 0.5, 0.3333333333333333, 0.5], ['Na', 0.5, 0.3333333333333333, 0.6666666666666666], ['Cl', 0.5, 0.3333333333333333, 0.8333333333333334], ['Na', 0.5, 0.3333333333333333, 1.0], ['Cl', 0.5, 0.5, 0.0], ['Na', 0.5, 0.5, 0.16666666666666666], ['Cl', 0.5, 0.5, 0.3333333333333333], ['Na', 0.5, 0.5, 0.5], ['Cl', 0.5, 0.5, 0.6666666666666666], ['Na', 0.5, 0.5, 0.8333333333333334], ['Cl', 0.5, 0.5, 1.0], ['Na', 0.5, 0.6666666666666666, 0.0], ['Cl', 0.5, 0.6666666666666666, 0.16666666666666666], ['Na', 0.5, 0.6666666666666666, 0.3333333333333333], ['Cl', 0.5, 0.6666666666666666, 0.5], ['Na', 0.5, 0.6666666666666666, 0.6666666666666666], ['Cl', 0.5, 0.6666666666666666, 0.8333333333333334], ['Na', 0.5, 0.6666666666666666, 1.0], ['Cl', 0.5, 0.8333333333333334, 0.0], ['Na', 0.5, 0.8333333333333334, 0.16666666666666666], ['Cl', 0.5, 0.8333333333333334, 0.3333333333333333], ['Na', 0.5, 0.8333333333333334, 0.5], ['Cl', 0.5, 0.8333333333333334, 0.6666666666666666], ['Na', 0.5, 0.8333333333333334, 0.8333333333333334], ['Cl', 0.5, 0.8333333333333334, 1.0], ['Na', 0.5, 1.0, 0.0], ['Cl', 0.5, 1.0, 0.16666666666666666], ['Na', 0.5, 1.0, 0.3333333333333333], ['Cl', 0.5, 1.0, 0.5], ['Na', 0.5, 1.0, 0.6666666666666666], ['Cl', 0.5, 1.0, 0.8333333333333334], ['Na', 0.5, 1.0, 1.0], ['Cl', 0.6666666666666666, 0.0, 0.0], ['Na', 0.6666666666666666, 0.0, 0.16666666666666666], ['Cl', 0.6666666666666666, 0.0, 0.3333333333333333], ['Na', 0.6666666666666666, 0.0, 0.5], ['Cl', 0.6666666666666666, 0.0, 0.6666666666666666], ['Na', 0.6666666666666666, 0.0, 0.8333333333333334], ['Cl', 0.6666666666666666, 0.0, 1.0], ['Na', 0.6666666666666666, 0.16666666666666666, 0.0], ['Cl', 0.6666666666666666, 0.16666666666666666, 0.16666666666666666], ['Na', 0.6666666666666666, 0.16666666666666666, 0.3333333333333333], ['Cl', 0.6666666666666666, 0.16666666666666666, 0.5], ['Na', 0.6666666666666666, 0.16666666666666666, 0.6666666666666666], ['Cl', 0.6666666666666666, 0.16666666666666666, 0.8333333333333334], ['Na', 0.6666666666666666, 0.16666666666666666, 1.0], ['Cl', 0.6666666666666666, 0.3333333333333333, 0.0], ['Na', 0.6666666666666666, 0.3333333333333333, 0.16666666666666666], ['Cl', 0.6666666666666666, 0.3333333333333333, 0.3333333333333333], ['Na', 0.6666666666666666, 0.3333333333333333, 0.5], ['Cl', 0.6666666666666666, 0.3333333333333333, 0.6666666666666666], ['Na', 0.6666666666666666, 0.3333333333333333, 0.8333333333333334], ['Cl', 0.6666666666666666, 0.3333333333333333, 1.0], ['Na', 0.6666666666666666, 0.5, 0.0], ['Cl', 0.6666666666666666, 0.5, 0.16666666666666666], ['Na', 0.6666666666666666, 0.5, 0.3333333333333333], ['Cl', 0.6666666666666666, 0.5, 0.5], ['Na', 0.6666666666666666, 0.5, 0.6666666666666666], ['Cl', 0.6666666666666666, 0.5, 0.8333333333333334], ['Na', 0.6666666666666666, 0.5, 1.0], ['Cl', 0.6666666666666666, 0.6666666666666666, 0.0], ['Na', 0.6666666666666666, 0.6666666666666666, 0.16666666666666666], ['Cl', 0.6666666666666666, 0.6666666666666666, 0.3333333333333333], ['Na', 0.6666666666666666, 0.6666666666666666, 0.5], ['Cl', 0.6666666666666666, 0.6666666666666666, 0.6666666666666666], ['Na', 0.6666666666666666, 0.6666666666666666, 0.8333333333333334], ['Cl', 0.6666666666666666, 0.6666666666666666, 1.0], ['Na', 0.6666666666666666, 0.8333333333333334, 0.0], ['Cl', 0.6666666666666666, 0.8333333333333334, 0.16666666666666666], ['Na', 0.6666666666666666, 0.8333333333333334, 0.3333333333333333], ['Cl', 0.6666666666666666, 0.8333333333333334, 0.5], ['Na', 0.6666666666666666, 0.8333333333333334, 0.6666666666666666], ['Cl', 0.6666666666666666, 0.8333333333333334, 0.8333333333333334], ['Na', 0.6666666666666666, 0.8333333333333334, 1.0], ['Cl', 0.6666666666666666, 1.0, 0.0], ['Na', 0.6666666666666666, 1.0, 0.16666666666666666], ['Cl', 0.6666666666666666, 1.0, 0.3333333333333333], ['Na', 0.6666666666666666, 1.0, 0.5], ['Cl', 0.6666666666666666, 1.0, 0.6666666666666666], ['Na', 0.6666666666666666, 1.0, 0.8333333333333334], ['Cl', 0.6666666666666666, 1.0, 1.0], ['Na', 0.8333333333333334, 0.0, 0.0], ['Cl', 0.8333333333333334, 0.0, 0.16666666666666666], ['Na', 0.8333333333333334, 0.0, 0.3333333333333333], ['Cl', 0.8333333333333334, 0.0, 0.5], ['Na', 0.8333333333333334, 0.0, 0.6666666666666666], ['Cl', 0.8333333333333334, 0.0, 0.8333333333333334], ['Na', 0.8333333333333334, 0.0, 1.0], ['Cl', 0.8333333333333334, 0.16666666666666666, 0.0], ['Na', 0.8333333333333334, 0.16666666666666666, 0.16666666666666666], ['Cl', 0.8333333333333334, 0.16666666666666666, 0.3333333333333333], ['Na', 0.8333333333333334, 0.16666666666666666, 0.5], ['Cl', 0.8333333333333334, 0.16666666666666666, 0.6666666666666666], ['Na', 0.8333333333333334, 0.16666666666666666, 0.8333333333333334], ['Cl', 0.8333333333333334, 0.16666666666666666, 1.0], ['Na', 0.8333333333333334, 0.3333333333333333, 0.0], ['Cl', 0.8333333333333334, 0.3333333333333333, 0.16666666666666666], ['Na', 0.8333333333333334, 0.3333333333333333, 0.3333333333333333], ['Cl', 0.8333333333333334, 0.3333333333333333, 0.5], ['Na', 0.8333333333333334, 0.3333333333333333, 0.6666666666666666], ['Cl', 0.8333333333333334, 0.3333333333333333, 0.8333333333333334], ['Na', 0.8333333333333334, 0.3333333333333333, 1.0], ['Cl', 0.8333333333333334, 0.5, 0.0], ['Na', 0.8333333333333334, 0.5, 0.16666666666666666], ['Cl', 0.8333333333333334, 0.5, 0.3333333333333333], ['Na', 0.8333333333333334, 0.5, 0.5], ['Cl', 0.8333333333333334, 0.5, 0.6666666666666666], ['Na', 0.8333333333333334, 0.5, 0.8333333333333334], ['Cl', 0.8333333333333334, 0.5, 1.0], ['Na', 0.8333333333333334, 0.6666666666666666, 0.0], ['Cl', 0.8333333333333334, 0.6666666666666666, 0.16666666666666666], ['Na', 0.8333333333333334, 0.6666666666666666, 0.3333333333333333], ['Cl', 0.8333333333333334, 0.6666666666666666, 0.5], ['Na', 0.8333333333333334, 0.6666666666666666, 0.6666666666666666], ['Cl', 0.8333333333333334, 0.6666666666666666, 0.8333333333333334], ['Na', 0.8333333333333334, 0.6666666666666666, 1.0], ['Cl', 0.8333333333333334, 0.8333333333333334, 0.0], ['Na', 0.8333333333333334, 0.8333333333333334, 0.16666666666666666], ['Cl', 0.8333333333333334, 0.8333333333333334, 0.3333333333333333], ['Na', 0.8333333333333334, 0.8333333333333334, 0.5], ['Cl', 0.8333333333333334, 0.8333333333333334, 0.6666666666666666], ['Na', 0.8333333333333334, 0.8333333333333334, 0.8333333333333334], ['Cl', 0.8333333333333334, 0.8333333333333334, 1.0], ['Na', 0.8333333333333334, 1.0, 0.0], ['Cl', 0.8333333333333334, 1.0, 0.16666666666666666], ['Na', 0.8333333333333334, 1.0, 0.3333333333333333], ['Cl', 0.8333333333333334, 1.0, 0.5], ['Na', 0.8333333333333334, 1.0, 0.6666666666666666], ['Cl', 0.8333333333333334, 1.0, 0.8333333333333334], ['Na', 0.8333333333333334, 1.0, 1.0], ['Cl', 1.0, 0.0, 0.0], ['Na', 1.0, 0.0, 0.16666666666666666], ['Cl', 1.0, 0.0, 0.3333333333333333], ['Na', 1.0, 0.0, 0.5], ['Cl', 1.0, 0.0, 0.6666666666666666], ['Na', 1.0, 0.0, 0.8333333333333334], ['Cl', 1.0, 0.0, 1.0], ['Na', 1.0, 0.16666666666666666, 0.0], ['Cl', 1.0, 0.16666666666666666, 0.16666666666666666], ['Na', 1.0, 0.16666666666666666, 0.3333333333333333], ['Cl', 1.0, 0.16666666666666666, 0.5], ['Na', 1.0, 0.16666666666666666, 0.6666666666666666], ['Cl', 1.0, 0.16666666666666666, 0.8333333333333334], ['Na', 1.0, 0.16666666666666666, 1.0], ['Cl', 1.0, 0.3333333333333333, 0.0], ['Na', 1.0, 0.3333333333333333, 0.16666666666666666], ['Cl', 1.0, 0.3333333333333333, 0.3333333333333333], ['Na', 1.0, 0.3333333333333333, 0.5], ['Cl', 1.0, 0.3333333333333333, 0.6666666666666666], ['Na', 1.0, 0.3333333333333333, 0.8333333333333334], ['Cl', 1.0, 0.3333333333333333, 1.0], ['Na', 1.0, 0.5, 0.0], ['Cl', 1.0, 0.5, 0.16666666666666666], ['Na', 1.0, 0.5, 0.3333333333333333], ['Cl', 1.0, 0.5, 0.5], ['Na', 1.0, 0.5, 0.6666666666666666], ['Cl', 1.0, 0.5, 0.8333333333333334], ['Na', 1.0, 0.5, 1.0], ['Cl', 1.0, 0.6666666666666666, 0.0], ['Na', 1.0, 0.6666666666666666, 0.16666666666666666], ['Cl', 1.0, 0.6666666666666666, 0.3333333333333333], ['Na', 1.0, 0.6666666666666666, 0.5], ['Cl', 1.0, 0.6666666666666666, 0.6666666666666666], ['Na', 1.0, 0.6666666666666666, 0.8333333333333334], ['Cl', 1.0, 0.6666666666666666, 1.0], ['Na', 1.0, 0.8333333333333334, 0.0], ['Cl', 1.0, 0.8333333333333334, 0.16666666666666666], ['Na', 1.0, 0.8333333333333334, 0.3333333333333333], ['Cl', 1.0, 0.8333333333333334, 0.5], ['Na', 1.0, 0.8333333333333334, 0.6666666666666666], ['Cl', 1.0, 0.8333333333333334, 0.8333333333333334], ['Na', 1.0, 0.8333333333333334, 1.0], ['Cl', 1.0, 1.0, 0.0], ['Na', 1.0, 1.0, 0.16666666666666666], ['Cl', 1.0, 1.0, 0.3333333333333333], ['Na', 1.0, 1.0, 0.5], ['Cl', 1.0, 1.0, 0.6666666666666666], ['Na', 1.0, 1.0, 0.8333333333333334], ['Cl', 1.0, 1.0, 1.0]]
 substance_id = 777
-# res = get_lattice_vectors2(a)
+res = get_lattice_vectors2(a)
 for id, ion in enumerate(res.keys()):
    ion_coords = [float(elem) for elem in ion.split(";")]
    # print(ion, ion_coords, res[ion])

diff --git a/scripts/coordinates_nondimensionalization.py b/scripts/coordinates_nondimensionalization.py
@@ -23,7 +23,7 @@ def normalize_coordinates(shifted_data):
         raise ValueError("Максимальная координата равна 0. Нормализация невозможна.")
     normalized_data = [
         [point[0]] + [coord / max_coordinate for coord in point[1:]]
-        #[point[0]] + [Decimal(f"{Decimal(Decimal(coord) / Decimal(max_coordinate)):.16f}") for coord in point[1:]]
+        # [point[0]] + [Decimal(f"{Decimal(Decimal(coord) / Decimal(max_coordinate)):.16f}") for coord in point[1:]]
         for point in shifted_data
     ]
     return normalized_data

diff --git a/scripts/db/xyz_to_db.py b/scripts/db/xyz_to_db.py
@@ -17,7 +17,7 @@ def parse_xyz(xyz_file_path):
     for line in lines[2:2 + atom_count]:
         parts = line.split()
         atom_type = parts[0]  # Тип атома (например, Cl, Na)
-        x, y, z = float(parts[1]), float(parts[2]), float(parts[3])  # decimal
+        x, y, z = float(parts[1]), float(parts[2]), float(parts[3])  # decimal?
         data.append([atom_type, x, y, z])
 
     return data

diff --git a/scripts/operations/spectrum_operations.py b/scripts/operations/spectrum_operations.py
@@ -70,8 +70,6 @@ def plot_spectra(data, ion, substance_id, vector_id, cmap="plasma", background="
     outdir += f"/spectrum_{str(substance_id)}"
     os.makedirs(outdir, exist_ok=True)
 
-    print(data)
-
     sns.set_style("whitegrid", {'axes.facecolor': background})
     plt.style.use("dark_background")
 

diff --git a/research_diary.md b/research_diary.md
@@ -20,23 +20,32 @@
 ...
 
 Цели к следующей встрече:
-- [ ] Пересмотреть БД, посчитать для всех решеток векторы
+- [ ] Пересмотреть БД
 - [ ] Подробнее описание решеток, лучше поля с группами описать, ссылку на исследования поле (3 этап работы)
+- [x] Посчитать для всех решеток векторы
 - [x] Сделать спектральные изображения (одно на каждую решетку)
 - [ ] Придумать как хранить изображения - самое простое id и в БД сохранить id пикчи
 
-Погрешность 5%.
+**Погрешность 5%.**
 
 ## 08.09.25
 
 Цели к следующей встрече:
-- [ ] Исправить ошибки по вычислению спектров для микро и макро решеток.
+- [x] Исправить ошибки по вычислению спектров для микро и макро решеток.
+  - Остался только баг на точность после запятой для идентичных значений
 - [ ] Подумать как можно скрипты для спектров и решетки по папкам понятнее разбить
-- [ ] bar -> hist, потому что bar друг на друга ложатся
+- [x] bar -> hist, потому что bar друг на друга ложатся
+  - Отменили, потому что hist не получится с такой точностью -> взяли bar
 
 ## 13.09.25
 
 Отказываемся от histplot - используем barplot + kde. Пример почему:
 1.0 и 0.999999 - из-за такого мелкого различия интервал 0-sqrt(3) придется делить на 10000000+ частей, и соответственно ширина одного столбца будет слишком мала для отображения.
 
-- Появились длинные координаты в названии графиков - ограничить
+Задачи к следующему разу:
+- [ ] Появились длинные координаты в названии графиков - ограничить в названии
+- [ ] Идея перед генерацией еще одну функцию соединения, для этого
+  - [ ] Ввести лямбду (дельта x) 10^-8 или другое значение
+  - [ ] Подумать над значениями для которых разница < лямбды - объединить под один ключ в словаре (какой?)
+  - [ ] Подумать, может ли быть 1 2 3 2 1 условно больше таких значений, как объединять? нет ли потери точности?
+  - [ ] Подумать над Decimal vs np.float vs python float
